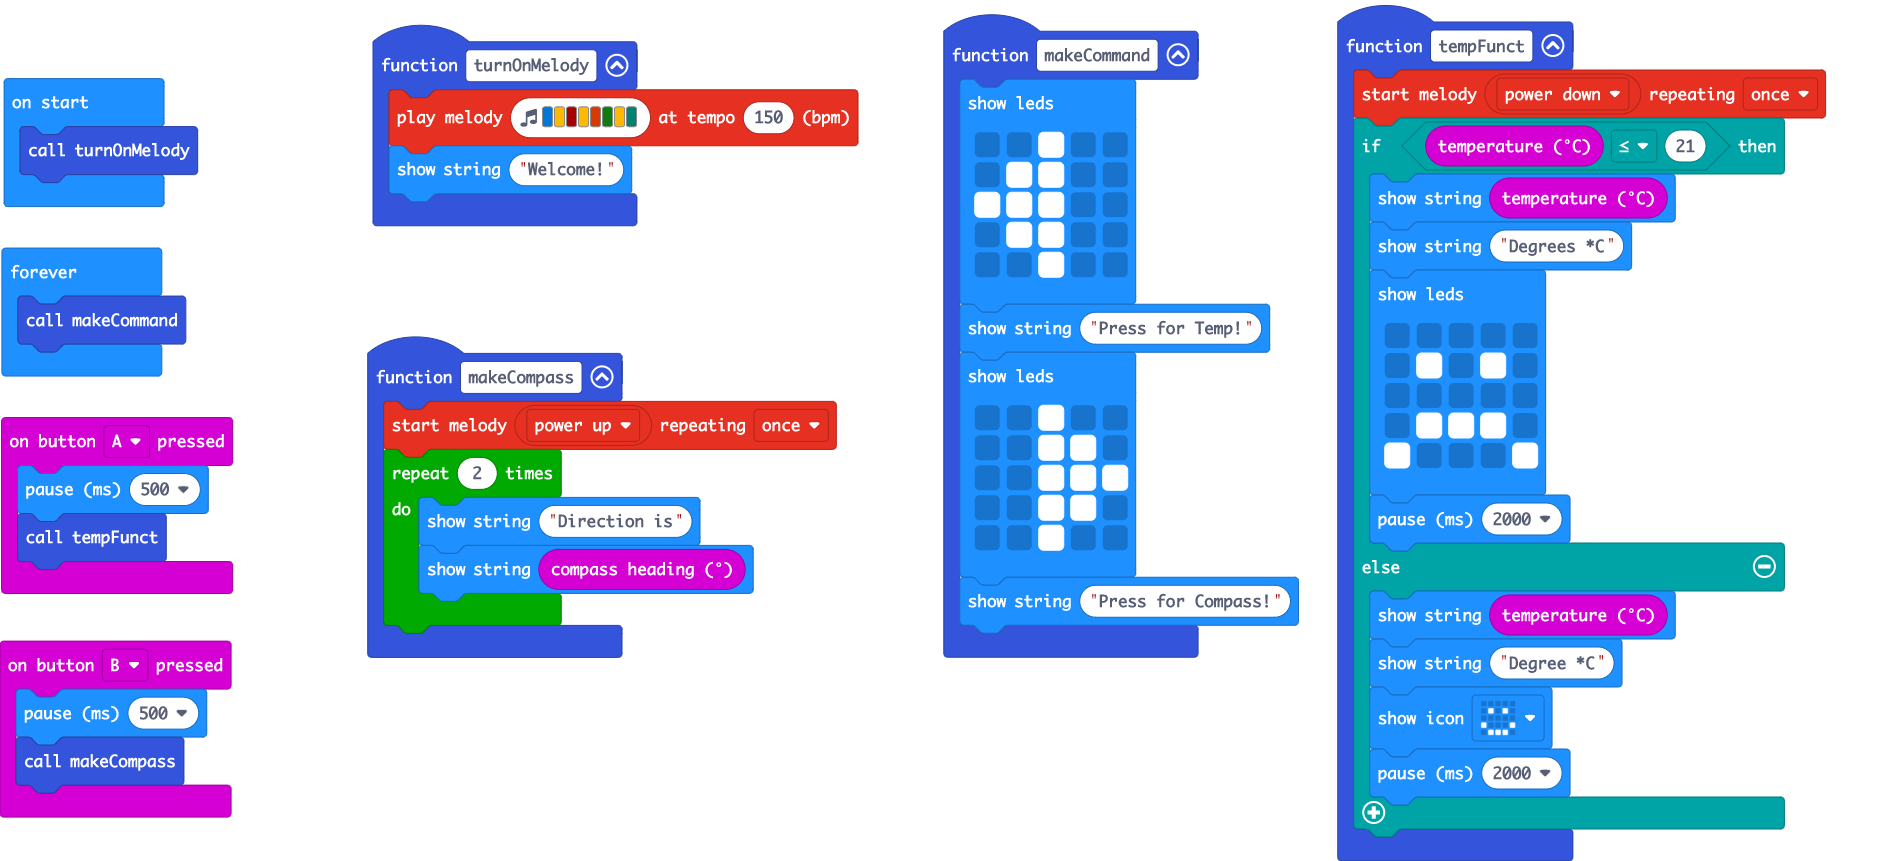
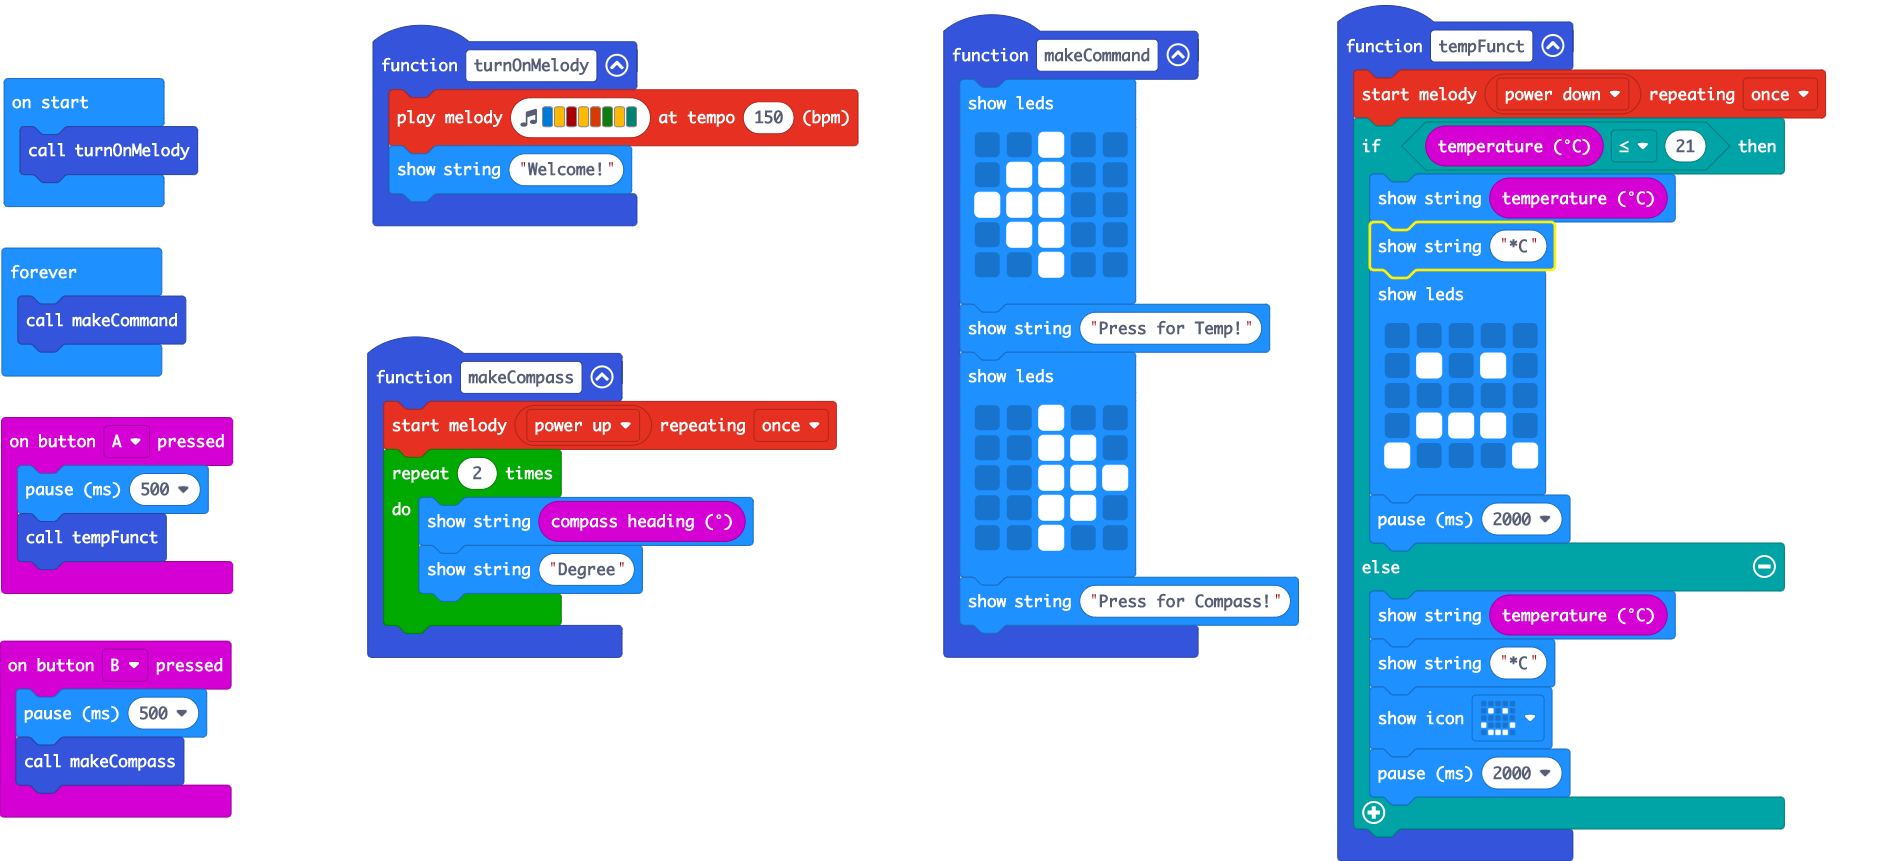
Updated Text

Changed region(s): [[0.278, 0.5738, 0.4015, 0.6945], [0.7412, 0.2416, 0.8956, 0.3322], [0.803, 0.7247, 0.8647, 0.8153]]

diff --git a/main.ts b/main.ts
@@ -5,8 +5,8 @@ input.onButtonPressed(Button.A, function () {
 function makeCompass () {
     music.startMelody(music.builtInMelody(Melodies.PowerUp), MelodyOptions.Once)
     for (let index = 0; index < 2; index++) {
-        basic.showString("Direction is")
         basic.showString("" + (input.compassHeading()))
+        basic.showString("Degree")
     }
 }
 function makeCommand () {
@@ -35,7 +35,7 @@ function tempFunct () {
     music.startMelody(music.builtInMelody(Melodies.PowerDown), MelodyOptions.Once)
     if (input.temperature() <= 21) {
         basic.showString("" + (input.temperature()))
-        basic.showString("Degrees *C")
+        basic.showString("*C")
         basic.showLeds(`
             . . . . .
             . # . # .
@@ -46,7 +46,7 @@ function tempFunct () {
         basic.pause(2000)
     } else {
         basic.showString("" + (input.temperature()))
-        basic.showString("Degree *C")
+        basic.showString("*C")
         basic.showIcon(IconNames.Happy)
         basic.pause(2000)
     }
